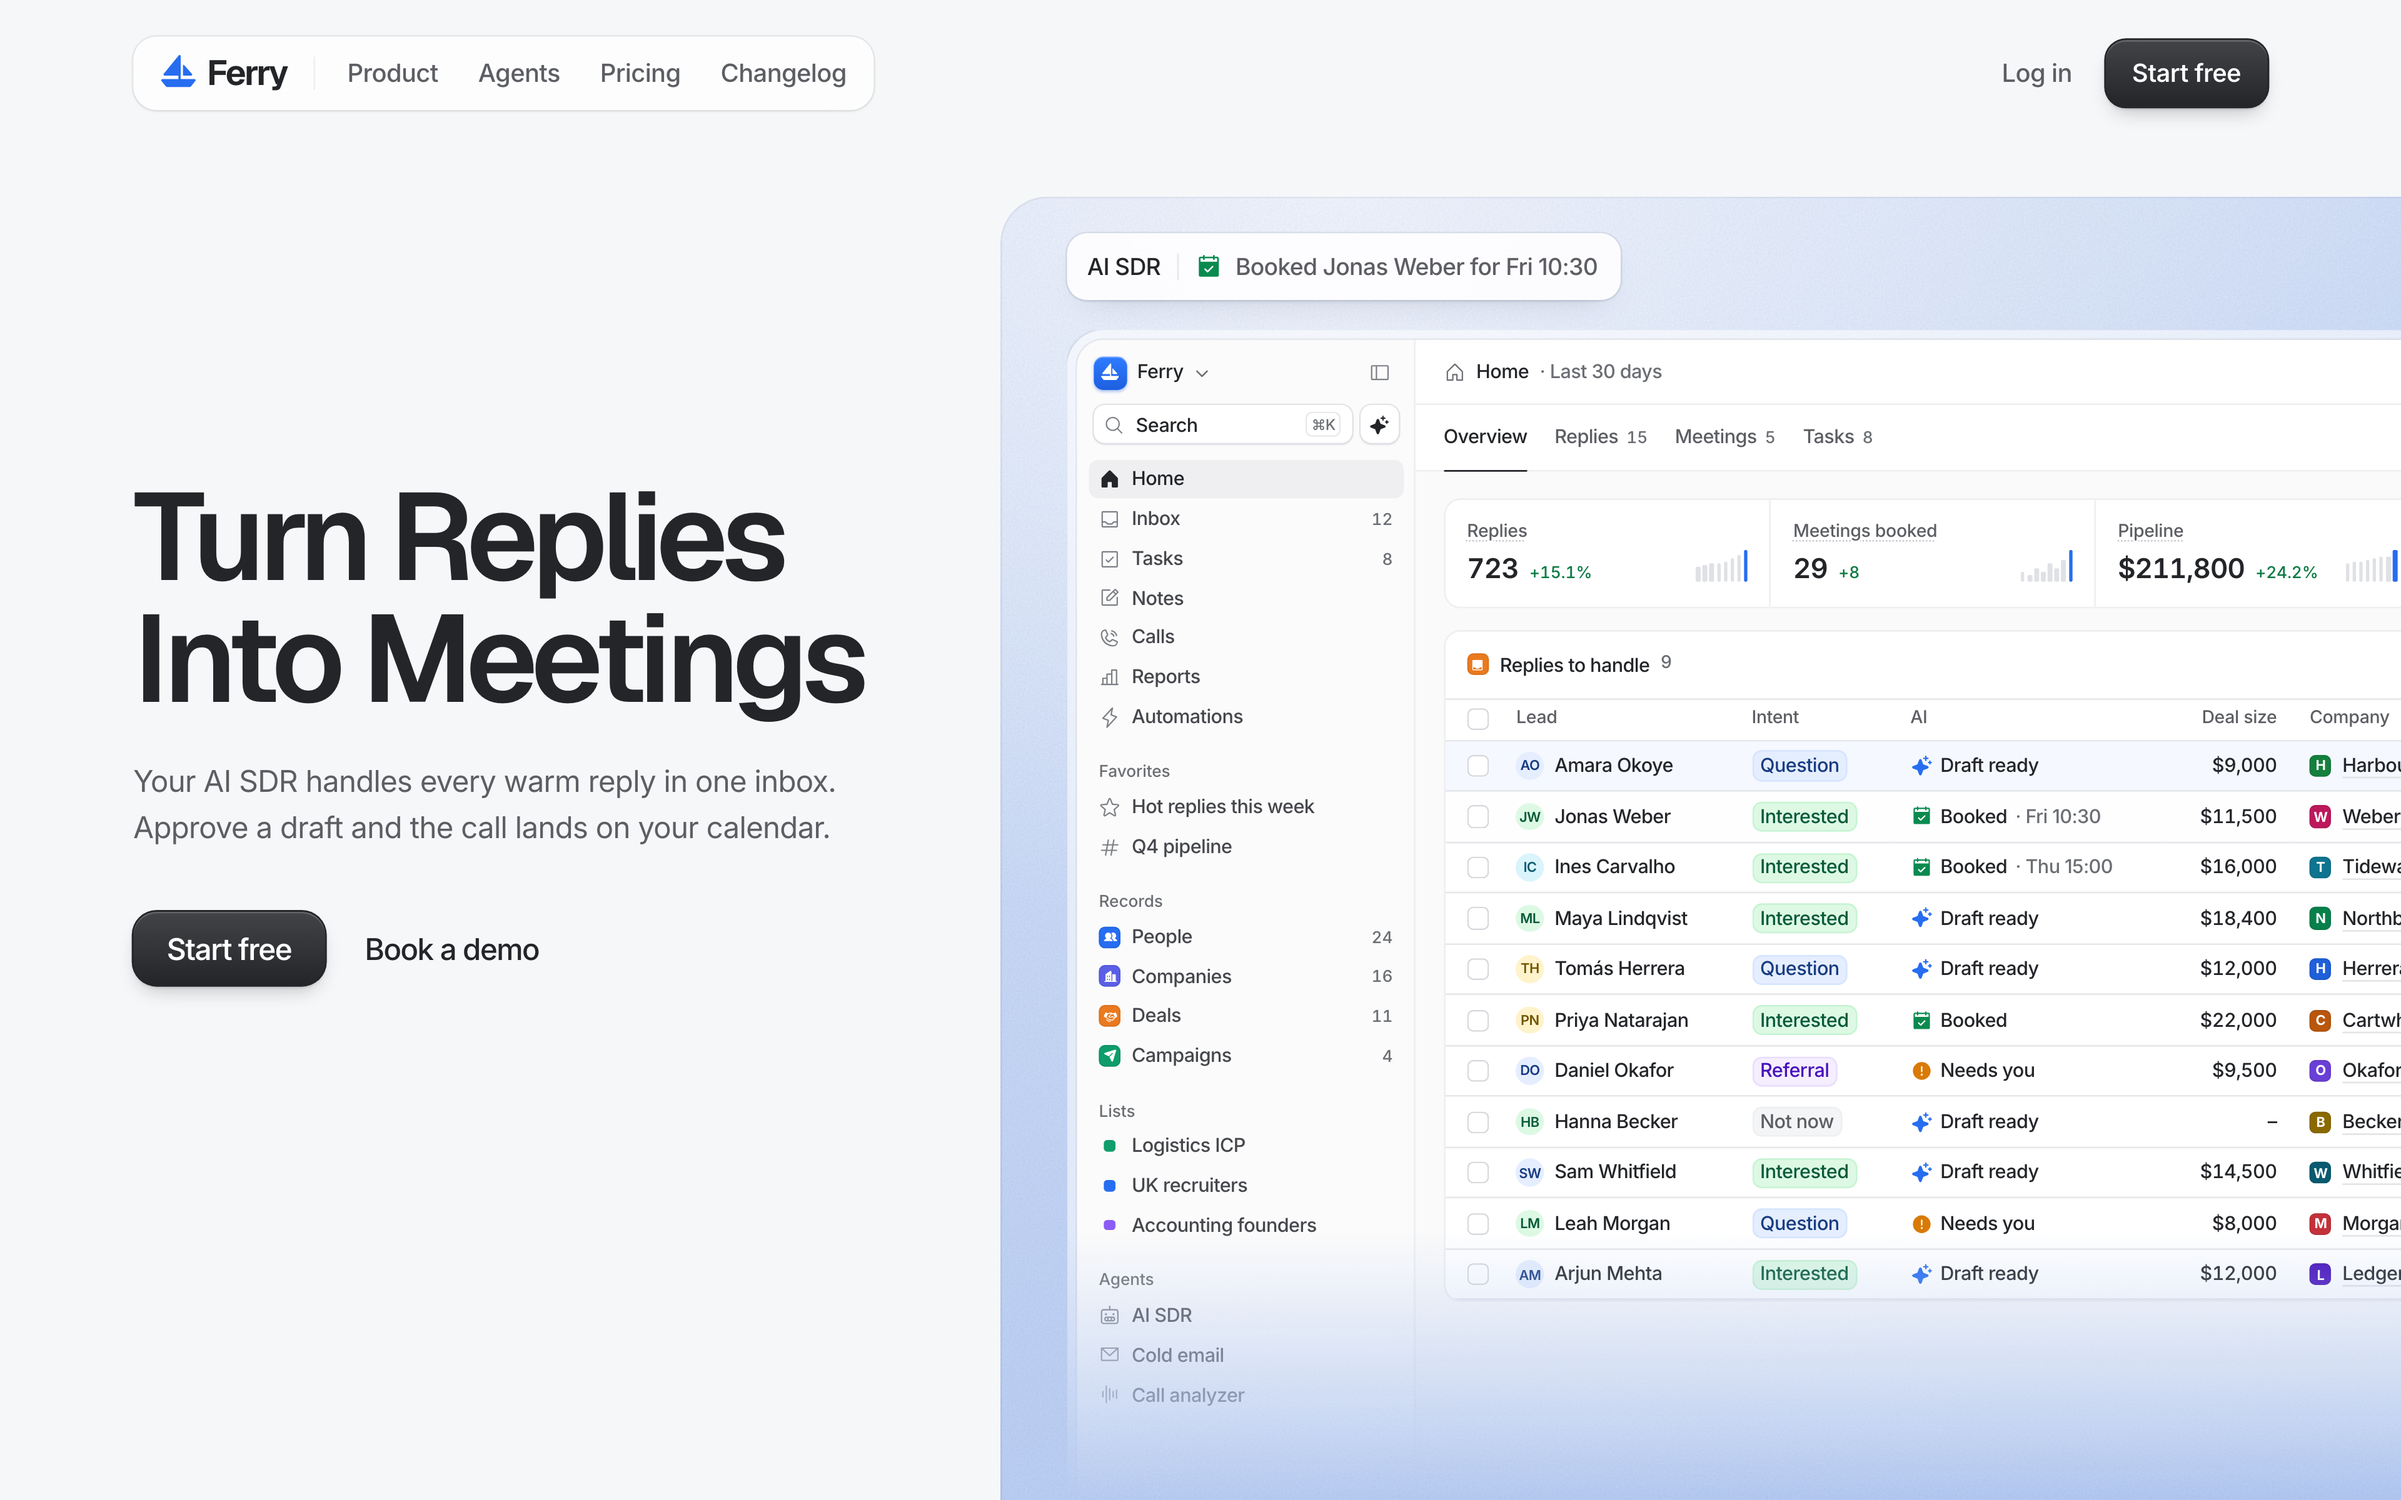
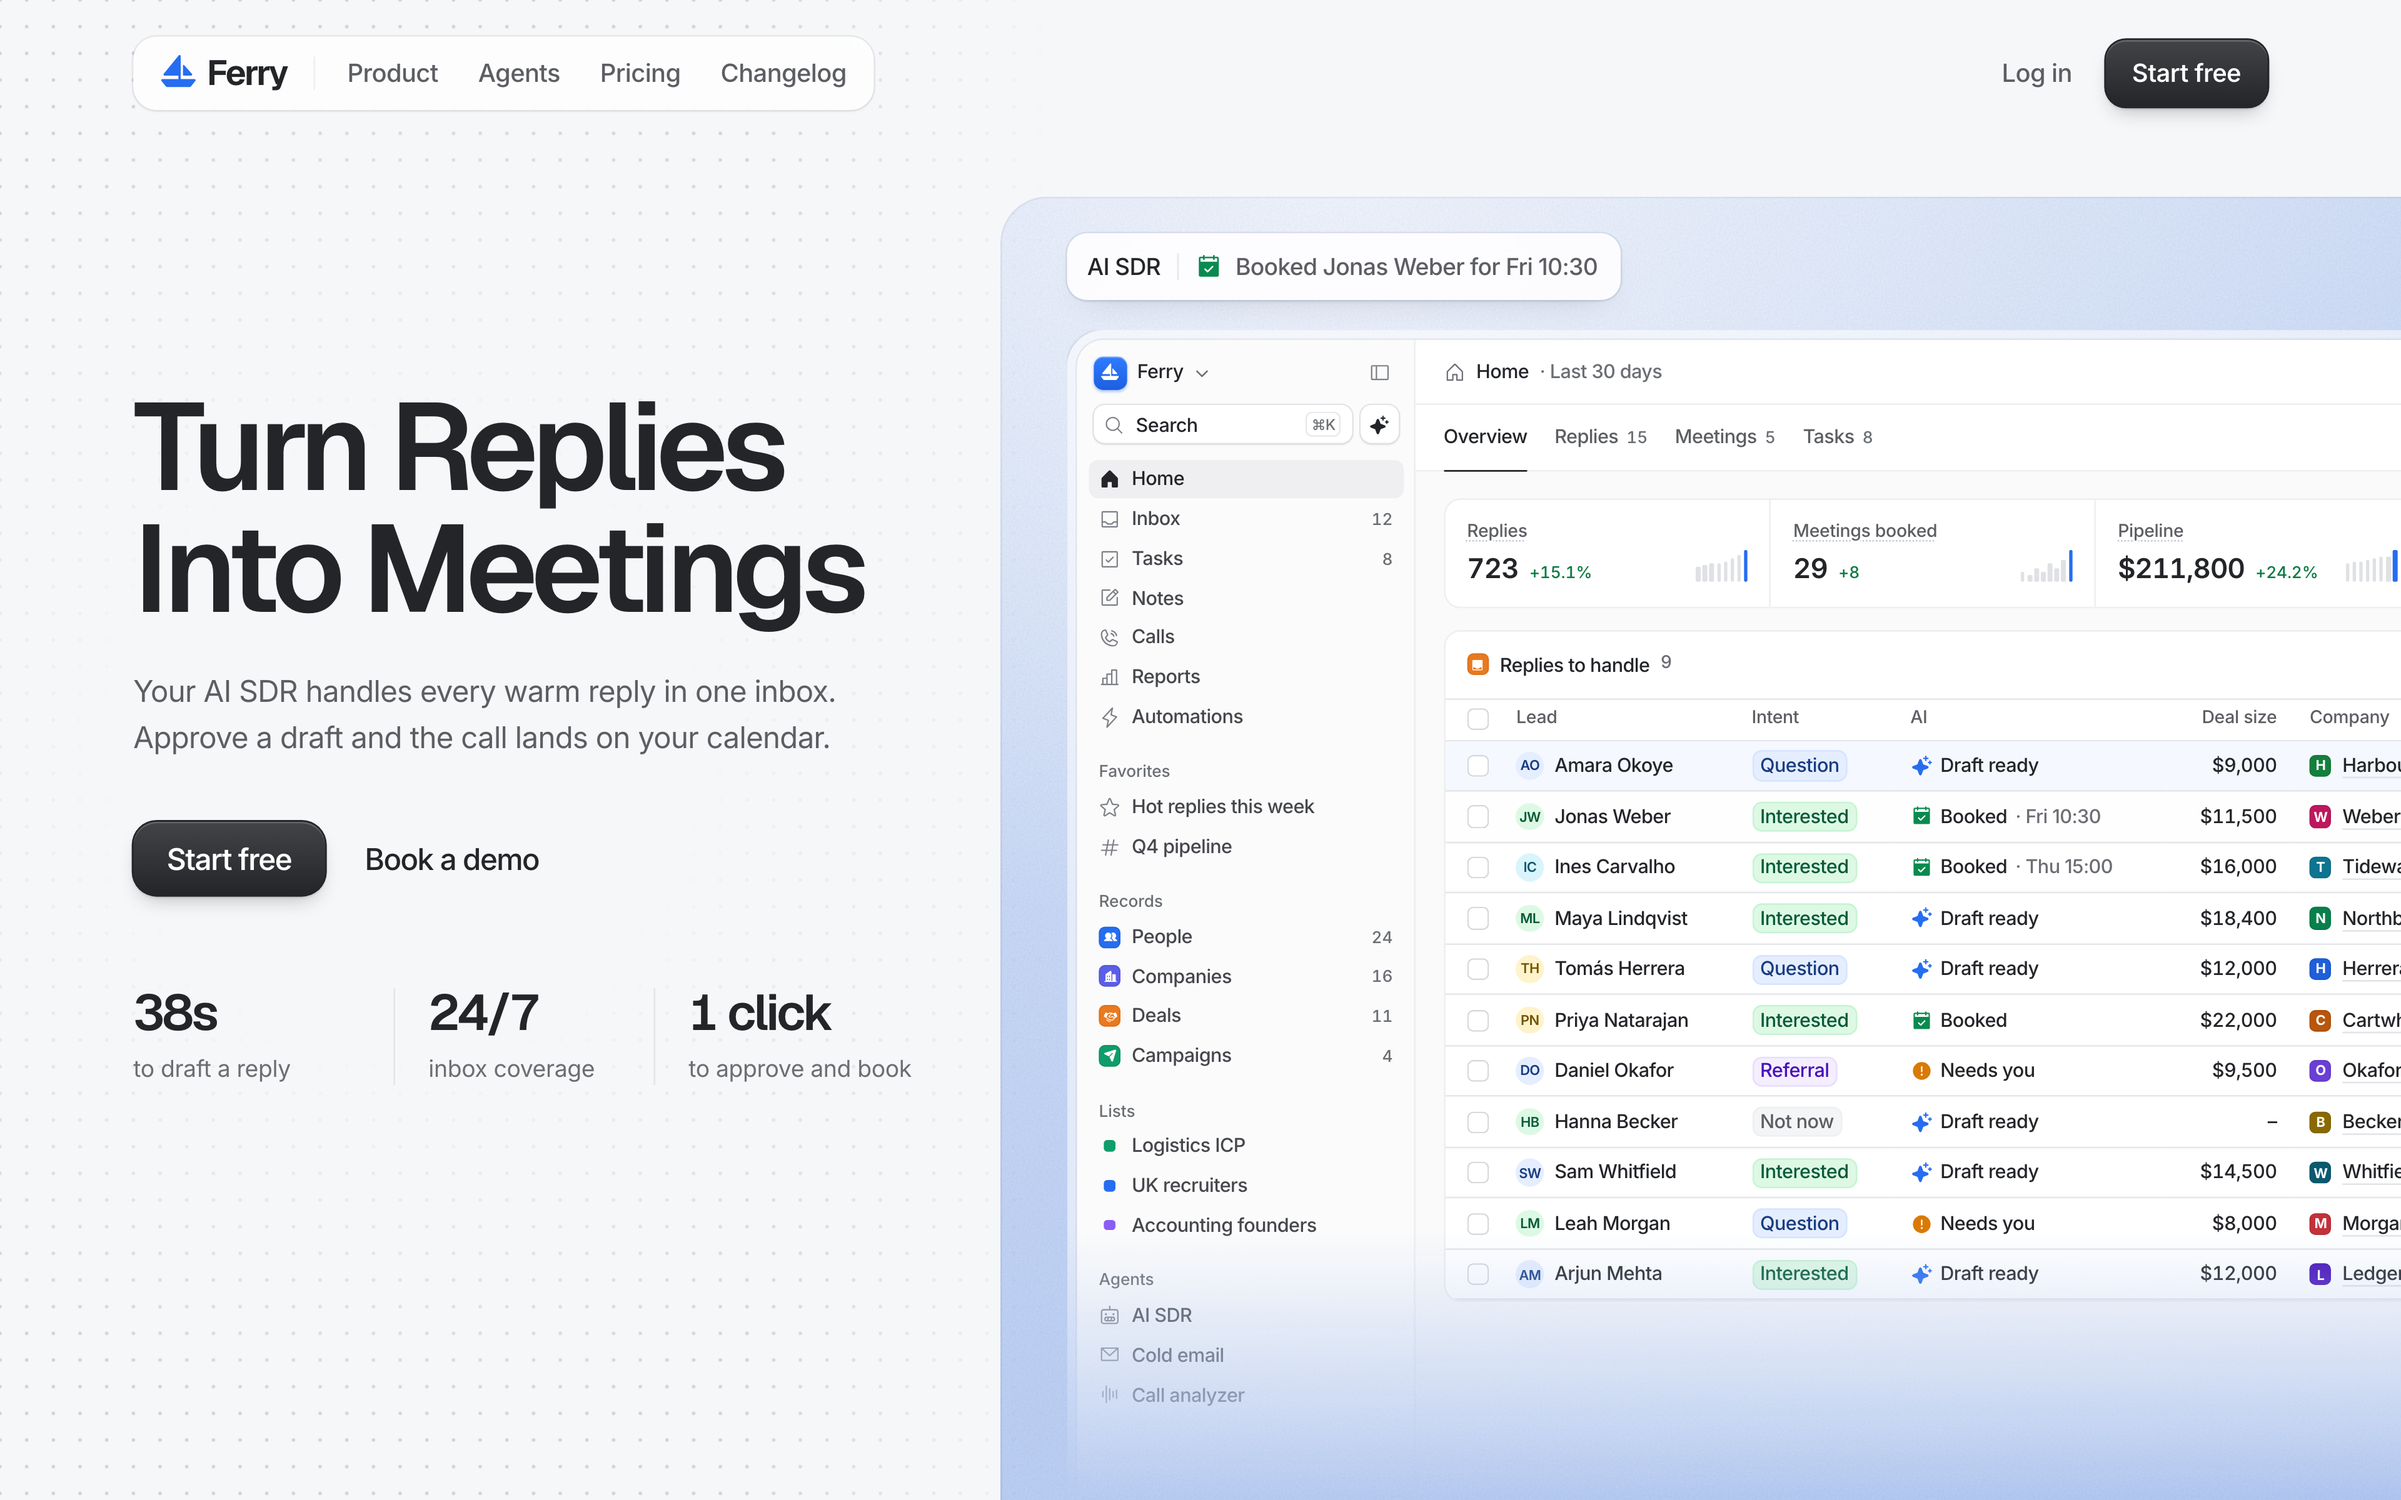
Ferry hero round 4: stats row and dot-grid texture on the copy side
Founder: left side 'too empty'. Adds three product-spec stats under the CTAs
and the founder-approved fine dot grid, cleared behind the type. Split-hero
founder rule updated in place (copy side gets one stats row + minimal texture).

Changed region(s): [[0.0312, 0.25, 0.375, 0.7188], [0.2812, 0.6562, 0.375, 0.7188]]

diff --git a/work/ferry-hero/app/src/App.tsx b/work/ferry-hero/app/src/App.tsx
@@ -5,7 +5,7 @@ import { useState } from 'react'
 import { MotionConfig, motion } from 'motion/react'
 import { Sailboat } from '@phosphor-icons/react'
 import './ferry/tokens.css'
-import { Frame, Reveal } from './kit'
+import { CountUp, Frame, Reveal } from './kit'
 import { ease, spring } from './motion'
 import { Product, StatusPill, useLive } from './hero/Story'
 
@@ -61,9 +61,13 @@ export default function App() {
           </motion.div>
         )}
 
+        {/* founder-approved texture: a fine dot grid on the copy side only, cleared behind the type, gone before the stage */}
+        <motion.div aria-hidden initial={{ opacity: 0 }} animate={{ opacity: 1 }} transition={{ delay: 0.1, duration: 1 }}
+          className="pointer-events-none absolute inset-y-0 left-0 w-[640px] bg-[radial-gradient(rgba(28,40,64,0.17)_1px,transparent_1.2px)] bg-[size:16px_16px] bg-[position:8px_8px] [mask-image:radial-gradient(ellipse_62%_46%_at_38%_50%,transparent_42%,#000_100%),linear-gradient(to_right,#000_70%,transparent)] [mask-composite:intersect]" />
+
         <Nav />
 
-        <main className="pointer-events-none absolute left-[80px] top-[286px] z-20 w-[540px] [&>*]:pointer-events-auto">
+        <main className="pointer-events-none absolute left-[80px] top-[232px] z-20 w-[540px] [&>*]:pointer-events-auto">
           <Reveal at={T.copy} y={14} blur>
             <h1 className="font-[family-name:var(--font-display)] text-[74px] font-[600] leading-[0.98] tracking-[-0.052em] text-[var(--ink)]">Turn Replies<br />Into Meetings</h1>
           </Reveal>
@@ -75,6 +79,22 @@ export default function App() {
               <a href="#" className="btn-ink press flex h-11 items-center rounded-[14px] px-5 text-[18px] font-[550] tracking-[-0.54px]">Start free</a>
               <a href="#" className="text-[18px] font-[500] tracking-[-0.54px] text-[var(--ink)] underline decoration-transparent underline-offset-4 transition-colors hover:decoration-[var(--ink)]">Book a demo</a>
             </div>
+          </Reveal>
+          {/* product specs, not customer results: nothing here claims proof */}
+          <Reveal at={T.copy + 0.3} y={10}>
+            <dl className="mt-14 grid w-[468px] grid-cols-3">
+              {[
+                { v: <CountUp to={38} suffix="s" at={T.copy + 0.35} />, l: 'to draft a reply' },
+                { v: '24/7', l: 'inbox coverage' },
+                { v: '1 click', l: 'to approve and book' },
+              ].map((x, i) => (
+                <div key={i} className={`${i ? 'border-l border-[#e3e5e9] pl-5' : 'pr-5'} ${i === 1 ? 'pr-5' : ''}`}>
+                  <dt className="sr-only">{x.l}</dt>
+                  <dd className="tnum font-[family-name:var(--font-display)] text-[30px] font-[600] leading-none tracking-[-0.045em] text-[var(--ink)]">{x.v}</dd>
+                  <dd className="mt-2 whitespace-nowrap text-[14px] leading-[20px] tracking-[-0.01em] text-[var(--soft)]">{x.l}</dd>
+                </div>
+              ))}
+            </dl>
           </Reveal>
         </main>
 

diff --git a/knowledge/founder/founder-taste.md b/knowledge/founder/founder-taste.md
@@ -259,9 +259,9 @@ Every rule here is a direct founder verdict on real output. It outranks books, w
 - **RULE** [founder] The last 5% to Marcel/Rico level is tiny effects plus consistency, so finish every product screen with this pass: one icon family across sidebar and canvas (state = fill weight, never a second library); one card-header grammar everywhere (16px solid tile + white glyph, 14/600 title, soft meta, actions right, same 48px band); micro-visuals that carry data (KPI micro-bar sparks with the latest period in the accent, segmented meters for rates, dotted underline on metric labels); charts compare against something (previous period dotted grey under a 1.5px accent line, monotone smoothing that never overshoots a real value, dashed gridlines, a hover crosshair + tooltip, an end-point dot); only one attribute per row is a filled chip, other statuses are icon + text; table edge cells share the card's 16px inset; dense cells use compact values ("12m", "1d") so nothing clips.
   **Why** Founder on Ferry: "we're so close but not marcel or rico quality by a tiny bit, which comes down to tiny effects and consistencies"; while studying Rico's analytics, Attio's charts and Kargul's CRM: "you're looking at fire examples tho".
   **Applies to** dashboards and hero product UI. **Check** icon libraries imported in the product = 1; every card header renders through one component; each chart has a comparison series and a hover state; filled chips per table row <= 1; no clipped cell text at 1440 wide. **Source** founder, Ferry round 2, 2026-10-09; knowledge/benchmarks/heyrico/analytics-light-cropped-window.jpg, attio/crop-home-charts.png, kargul-crm/crop-table-rows.png
-- **RULE** [founder] A split product hero stays clean: plain canvas behind the copy (Lightfield, Attio), the copy block vertically centred with nothing under the CTAs, and the product doing the visual work. If the hero needs art, confine it to one stage panel directly behind the product (Folk's grain gradient, Cursor's painting, Granola's collage); never a full-page pattern, contour field or scattered decorative numbers, and never a "how it works" step list in the hero.
+- **RULE** [founder] A split product hero stays clean: plain canvas behind the copy (Lightfield, Attio), the copy block vertically centred and the product doing the visual work. The copy side still needs quiet substance (founder round 3: "titles subtitle and buttons and that's all??? ... too empty"): one row of three stats under the CTAs (big display number + one-line soft label, hairline dividers, product specs not invented results) and a minimal texture such as the fine dot grid, cleared behind the type and stopping before the product stage. If the hero needs art, confine it to one stage panel directly behind the product (Folk's grain gradient, Cursor's painting, Granola's collage); never a full-page pattern, contour field or scattered decorative numbers, and never a "how it works" step list in the hero.
   **Why** Founder on the Ferry hero: kept "the title subtitle buttons nav bar the product nice", rejected the live sea-chart contour background and the three lit-up steps: "BG WITH THOSE LIKE THREE STEPS LIKE WTF IS SO STUPID... find better cleaner examples of this and do it better".
-  **Applies to** split and left-aligned product heroes. **Check** no texture or pattern outside the product stage; nothing between the CTAs and the bottom of the fold on the copy side; at most one floating surface over the product. **Source** founder, Ferry hero round 1, 2026-10-09; knowledge/benchmarks/split-heroes/lightfield-1440.png, folk-1440.png, attio-1440.png, product-heroes/cursor-1440.png
+  **Applies to** split and left-aligned product heroes. **Check** no busy pattern (contours, scattered numbers, step lists) anywhere; copy side = headline, subtitle, CTAs, one stats row, optional dot grid faded behind the type; at most one floating surface over the product. **Source** founder, Ferry hero round 1, 2026-10-09; knowledge/benchmarks/split-heroes/lightfield-1440.png, folk-1440.png, attio-1440.png, product-heroes/cursor-1440.png
 - **RULE** [founder] A product hero must feel alive and show enough of the product: render the dashboard at hero scale (about 0.8 zoom, ~11-12px text) so sidebar, KPIs and a full table read at once, and let the story play inside the product (rows arrive, AI states change, a cursor acts inline, numbers tick) with at most one narrating chip above the window (Lightfield's agent pill). No pop-up cards floating over the copy side; a static 1:1 crop of one table reads "empty... too simple". A soft blue stage panel behind the product was "not bad".
   **Why** Founder on Ferry hero round 2: "the bluish not bad just idk about second card like popping up nor the size of the dashboard... it's just empty and no stuff going on, it's not good... too simple".
   **Applies to** product heroes. **Check** something in the product changes at least every ~1-1.5s for the first ~10s; visible product shows the sidebar, KPIs and >= 8 table rows; no floating card overlaps the copy column. **Source** founder, Ferry hero round 2, 2026-10-09; knowledge/benchmarks/split-heroes/lightfield-1440.png
